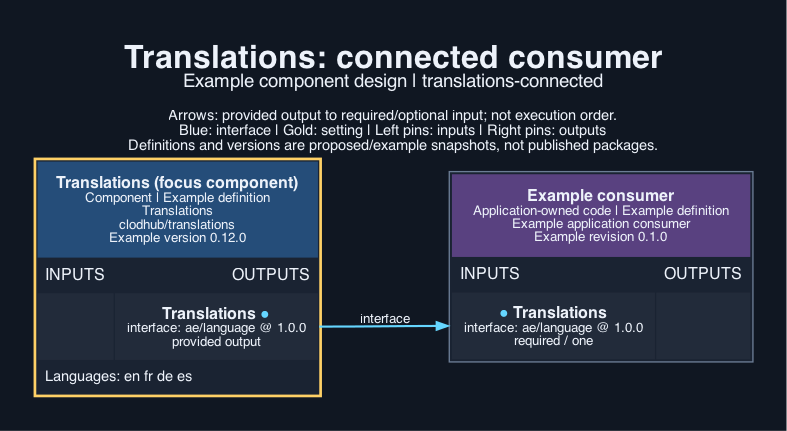
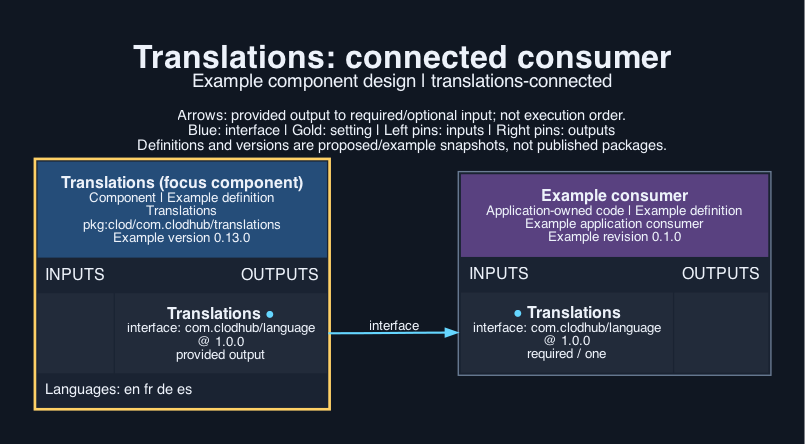
translations 0.13.0: package URL names, clod, com.clodhub interface types and Kotlin packages

Changed region(s): [[0.0305, 0.2413, 0.9759, 0.935], [0.1525, 0.0905, 0.8539, 0.2111], [0.0, 0.9954, 1.0, 1.0]]

diff --git a/tests/web.test.ts b/tests/web.test.ts
@@ -34,7 +34,7 @@ test("the languages setting is a space-separated list of known distinct names", 
 test("the OpenRPC interface describes the language functions and the string table", async () => {
   const doc = JSON.parse(readFileSync(new URL("../interfaces/language.json", import.meta.url), "utf8"));
   assert.equal(doc.openrpc, "1.3.2");
-  assert.deepEqual([doc.info.title, doc.info.version], ["ae/language", "1.0.0"]);
+  assert.deepEqual([doc.info.title, doc.info.version], ["com.clodhub/language", "1.0.0"]);
   const { LanguagesSetting, StringTable, Language } = doc.components.schemas;
   const setting = new RegExp(LanguagesSetting.pattern);
   assert.match(LanguagesSetting.default, setting);
@@ -49,7 +49,7 @@ test("the OpenRPC interface describes the language functions and the string tabl
   for (const method of doc.methods) if (method.name !== "generate") assert.equal(typeof web[method.name], "function", method.name);
 });
 
-test("languages.ts is rendered by aepm at install from the languages setting, inside a quoted string", { skip: !existsSync(new URL("../component.json", import.meta.url)) && "component.json is not in this copy" }, () => {
+test("languages.ts is rendered by clod at install from the languages setting, inside a quoted string", { skip: !existsSync(new URL("../component.json", import.meta.url)) && "component.json is not in this copy" }, () => {
   const manifest = JSON.parse(readFileSync(new URL("../component.json", import.meta.url), "utf8"));
   assert.deepEqual(manifest.artefacts.find((item: { source: string }) => item.source === "implementation/web/languages.ts"),
     { source: "implementation/web/languages.ts", destination: "components/translations/web/languages.ts", template: true, executable: false });

diff --git a/implementation/android/src/main/java/com/clodhub/i18n/AppLanguage.kt b/implementation/android/src/main/java/com/clodhub/i18n/AppLanguage.kt
@@ -1,4 +1,4 @@
-package ae.i18n
+package com.clodhub.i18n
 
 fun selectLanguage(requested: String, supported: List<String>, fallback: String): String {
     if (requested in supported) return requested
@@ -10,6 +10,6 @@ fun lookup(messages: Map<String, String>, key: String): String = messages[key] ?
 
 object AppLanguage {
     fun selectLanguage(requested: String, supported: List<String>, fallback: String): String =
-        ae.i18n.selectLanguage(requested, supported, fallback)
-    fun lookup(messages: Map<String, String>, key: String): String = ae.i18n.lookup(messages, key)
+        com.clodhub.i18n.selectLanguage(requested, supported, fallback)
+    fun lookup(messages: Map<String, String>, key: String): String = com.clodhub.i18n.lookup(messages, key)
 }

diff --git a/implementation/web/languages.ts b/implementation/web/languages.ts
@@ -1,2 +1,2 @@
-// Rendered by aepm at install from the translations settings: the languages the application offers, space-separated.
+// Rendered by clod at install from the translations settings: the languages the application offers, space-separated.
 export const languages: string = "{{languages}}";

diff --git a/tests/android/Main.kt b/tests/android/Main.kt
@@ -1,6 +1,6 @@
-import ae.i18n.selectLanguage
-import ae.i18n.lookup
-import ae.i18n.AppLanguage
+import com.clodhub.i18n.selectLanguage
+import com.clodhub.i18n.lookup
+import com.clodhub.i18n.AppLanguage
 
 fun main() {
     check(selectLanguage("fr-CA", listOf("en", "fr", "fr-CA"), "en") == "fr-CA")

diff --git a/INSTRUCTIONS.md b/INSTRUCTIONS.md
@@ -1,18 +1,18 @@
 # Translations instructions
 
-Package `clodhub/translations` version `0.12.0`. It provides the `language` interface (type `ae/language`, version 1.0.0, OpenRPC 1.3.2 document `interfaces/language.json`; its `StringTable` schema is the shape of the string table) and the `resources` generator.
+Package `pkg:clod/com.clodhub/translations` version `0.13.0`. It provides the `language` interface (type `com.clodhub/language`, version 1.0.0, OpenRPC 1.3.2 document `interfaces/language.json`; its `StringTable` schema is the shape of the string table) and the `resources` generator.
 
 ## For the agent
 
 - Select this component when the application shows text in more than one language. Skip it for single-language applications.
 - Connect the provided `language` port to every component that shows text (`guided-tour` requires it; the recipe's own screens use it directly).
 - Setting: `languages` (string, label; optional; default `en fr de es`): the recipe's `languages` answer written as a space-separated list (for example `en fr`). English must be listed. No accounts or keys are needed.
-- The generator accepts only `en`, `fr`, `de`, `es`; any other name is rejected before output is written. Pass the setting as `--languages`, or ship a table with every language and offer the languages of `web/languages.ts`, which aepm renders from the setting at install.
+- The generator accepts only `en`, `fr`, `de`, `es`; any other name is rejected before output is written. Pass the setting as `--languages`, or ship a table with every language and offer the languages of `web/languages.ts`, which clod renders from the setting at install.
 - Place the recipe's string table at a path the generator can read (`resources/strings.json`) and run the generator once per platform target the recipe includes.
 
 ## For the developer
 
-- Install paths: `components/translations/web/i18n.ts`, `components/translations/apple/Sources/Language.swift`, `components/translations/android/src/main/java/ae/i18n/AppLanguage.kt`, `components/translations/scripts/generate.py`. The Kotlin package is `ae.i18n` and the web file is `i18n.ts`.
+- Install paths: `components/translations/web/i18n.ts`, `components/translations/apple/Sources/Language.swift`, `components/translations/android/src/main/java/com/clodhub/i18n/AppLanguage.kt`, `components/translations/scripts/generate.py`. The Kotlin package is `com.clodhub.i18n` and the web file is `i18n.ts`.
 - Language selection: `selectLanguage(requested, supported, fallback)` returns the exact match, else the part before the first hyphen, else the fallback. Case is preserved (`fr-CA` against `["fr"]` gives `fr`).
 - Lookup: `lookup(messages, key)` returns the stored text (an empty string counts as present) or the key itself.
 - Dictionaries, persisted choice and the platform context belong to the application. This component stores nothing.
@@ -34,6 +34,6 @@ From the component directory:
 - `python3 -m unittest discover -s tests -p 'test_*.py'`
 - `python3 tests/native.py apple` (needs swiftc 6.4)
 - `python3 tests/native.py android` (needs kotlinc 2.2 and java 26.0; not runnable where kotlinc is missing)
-- `python3 -m aepm review <digest> --store STORE --policy POLICY --trusted --allow-network` checks an archive fetched with `python3 -m aepm fetch clodhub/translations@VERSION --store STORE --from https://clodhub.com` and runs its suites.
+- `python3 -m clod review <digest> --store STORE --policy POLICY --trusted --allow-network` checks an archive fetched with `python3 -m clod fetch translations@VERSION --store STORE --from https://clodhub.com` and runs its suites.
 
 Verify in the application by switching to `fr-CA` with `["en","fr"]` supported and checking that French text appears, then by looking up a missing key and checking that the key is shown.

diff --git a/CONTRACT.md b/CONTRACT.md
@@ -15,10 +15,10 @@ The installer collects one setting:
 The installed web client reads the setting from `web/languages.ts`, and the generator takes it as `--languages`. The application supplies its own text table and remembers each person's choice.
 
 ## Artefacts and dependencies
-`component.json` maps every `implementation/` source into `components/translations/`: `web/i18n.ts` (choosing and looking up), `web/languages.ts` (the `languages` setting, which aepm writes at install), `apple/Sources/Language.swift`, the Android `ae.i18n` sources and `scripts/generate.py` (the generator). Python 3.12 and Node 26.5 with their standard libraries only. `tools.lock.json` pins the check tools (Node 26.5, Python 3.12, Swift 6.4, Kotlin 2.2, Java 26.0).
+`component.json` maps every `implementation/` source into `components/translations/`: `web/i18n.ts` (choosing and looking up), `web/languages.ts` (the `languages` setting, which clod writes at install), `apple/Sources/Language.swift`, the Android `com.clodhub.i18n` sources and `scripts/generate.py` (the generator). Python 3.12 and Node 26.5 with their standard libraries only. `tools.lock.json` pins the check tools (Node 26.5, Python 3.12, Swift 6.4, Kotlin 2.2, Java 26.0).
 
 ## Provided interfaces
-`interfaces/language.json` defines `language` (`ae/language`) version 1.0.0 (facility id `language`) as an OpenRPC 1.3.2 document: `selectLanguage`, `lookup`, `parseLanguages` and the Python `generate`, each naming its Swift and Kotlin form, with the message map, the text table, the generated web `strings.json` and the `languages` setting as JSON Schema 2020-12 under `components.schemas`.
+`interfaces/language.json` defines `language` (`com.clodhub/language`) version 1.0.0 (facility id `language`) as an OpenRPC 1.3.2 document: `selectLanguage`, `lookup`, `parseLanguages` and the Python `generate`, each naming its Swift and Kotlin form, with the message map, the text table, the generated web `strings.json` and the `languages` setting as JSON Schema 2020-12 under `components.schemas`.
 
 ## Required interfaces
 None from other components. The application supplies the text table, the list of languages it offers (from the setting), the language a person chose, and how text with placeholders is filled in.
@@ -36,7 +36,7 @@ Keys start with a letter and hold letters, digits and underscores. Then generate
 python3 components/translations/scripts/generate.py --strings resources/strings.json --web web/src --apple ios/Resources --android android/app/src/main/res --languages "en fr de es"
 ```
 
-On the web, `selectLanguage(navigator.language, parseLanguages(languages), "en")` picks the language and `lookup(messages, "welcome")` returns the text. On Apple use `Language.swift`; on Android import the `ae.i18n` functions (`AppLanguage`). Native placeholders are numbered in the order they first appear in English; web placeholders keep their names.
+On the web, `selectLanguage(navigator.language, parseLanguages(languages), "en")` picks the language and `lookup(messages, "welcome")` returns the text. On Apple use `Language.swift`; on Android import the `com.clodhub.i18n` functions (`AppLanguage`). Native placeholders are numbered in the order they first appear in English; web placeholders keep their names.
 
 ## Visual definition and connected examples
 `visual/definition.json` declares the `language` output; `visual/examples/connected.json` connects it to an illustrative application consumer. Both image formats and their text description are in `visual/output/`.

diff --git a/SOURCE.md b/SOURCE.md
@@ -6,10 +6,10 @@ Reference revision: `19905b75dbea89fbfd424d67fe26c81aaed0e018` (frozen McInPoker
 |---|---|---|---|
 | `implementation/scripts/generate.py` (81) | `i18n/generate.py` 1-64 | Paths are injected (`--strings --web --apple --android`); language set, key grammar, duplicate keys and placeholder mismatches are validated before any write; XML escaping added | The fixed repository paths and the game's key list (`i18n/keys.txt`, `i18n/strings.json`) |
 | `implementation/web/i18n.ts` (9) | `web/src/i18n.ts` 11-43 (`LANGUAGES`, `pickLanguage`, `L`) | Exact, base-before-hyphen, then fallback selection and key lookup as pure functions with supplied lists | Browser storage, current-language state, placeholder formatting (`L`), game text (`promptText`, `eventText`, `roomName`, `actionText`, lines 44-68) |
-| `implementation/android/src/main/java/ae/i18n/AppLanguage.kt` (15) | `android/app/src/main/java/com/georgemcintyre/mcinpoker/AppLanguage.kt` 11-31 (`AppLanguage`) | Selection and lookup only, in package `ae.i18n` | Shared-preferences storage, `Context` wrapping and locale lists (`picked`, `pick`, `current`, `wrap`) |
+| `implementation/android/src/main/java/com/clodhub/i18n/AppLanguage.kt` (15) | `android/app/src/main/java/com/georgemcintyre/mcinpoker/AppLanguage.kt` 11-31 (`AppLanguage`) | Selection and lookup only, in package `com.clodhub.i18n` | Shared-preferences storage, `Context` wrapping and locale lists (`picked`, `pick`, `current`, `wrap`) |
 | `implementation/apple/Sources/Language.swift` (9) | `ios/McInPoker/Sources/Strings.swift` 6-36 (`Language`, `localized`) | Same selection and lookup contract as the web file | Observable singleton, bundle selection and `L` formatting, typed game accessors (lines 37-101) |
 
-`implementation/web/languages.ts` is new (`generated-platform`): the `languages` setting as aepm renders it at install, for web clients that ship the generated table with every language.
+`implementation/web/languages.ts` is new (`generated-platform`): the `languages` setting as clod renders it at install, for web clients that ship the generated table with every language.
 
 Fixtures, `examples/consumer.ts` and tests are neutral local consumers written for this component. No game translation resources are included.
 

diff --git a/.opencode/knowledge/00-index.md b/.opencode/knowledge/00-index.md
@@ -1,6 +1,6 @@
 # translations ownership
 
-Repository: https://github.com/clodhub/translations.git. Package `clodhub/translations`, interface `ae/language`, facility `language`.
+Repository: https://github.com/clodhub/translations.git. Package `pkg:clod/com.clodhub/translations`, interface `com.clodhub/language`, facility `language`.
 
-Code: `implementation/web/i18n.ts`, `implementation/scripts/generate.py`, `implementation/apple/Sources/Language.swift`, `implementation/android/src/main/java/ae/i18n/AppLanguage.kt`. The install folder is `components/translations/`.
+Code: `implementation/web/i18n.ts`, `implementation/scripts/generate.py`, `implementation/apple/Sources/Language.swift`, `implementation/android/src/main/java/com/clodhub/i18n/AppLanguage.kt`. The install folder is `components/translations/`.
 Artefacts: `component.json`, `CONTRACT.md`, `INSTRUCTIONS.md`, `SOURCE.md`, `suitability.json` (library-only), `tools.lock.json`, `interfaces/language.json`, `tests/`, `visual/`. No data is kept, so there is no `migration.json`.

diff --git a/.opencode/knowledge/workflow.md b/.opencode/knowledge/workflow.md
@@ -4,4 +4,4 @@ Repository: `clodhub/translations`. Licence: `Apache-2.0` (`LICENCE`, `NOTICE`).
 
 Commands from the package root: `node --test tests/web.test.ts`, `python3 -m unittest discover -s tests -p 'test_*.py'`, `python3 tests/native.py apple`, `python3 tests/native.py android` (kotlinc is not installed here, so the Android check does not run).
 Generator: `python3 implementation/scripts/generate.py --strings FILE --web DIR --apple DIR --android DIR`.
-Review a fetched archive: `python3 -m aepm review <digest> --store STORE --policy POLICY --trusted --allow-network`. Always `-B`.
+Review a fetched archive: `python3 -m clod review <digest> --store STORE --policy POLICY --trusted --allow-network`. Always `-B`.

diff --git a/visual/output/description.md b/visual/output/description.md
@@ -1,3 +1,3 @@
 # Translations
 
-The translations component at version 0.12.0 provides ae/language version 1.0.0 to an illustrative application consumer. The single arrow runs from the named language output to its required input. No configuration or secret values are displayed.
+The translations component at version 0.13.0 provides com.clodhub/language version 1.0.0 to an illustrative application consumer. The single arrow runs from the named language output to its required input. No configuration or secret values are displayed.
